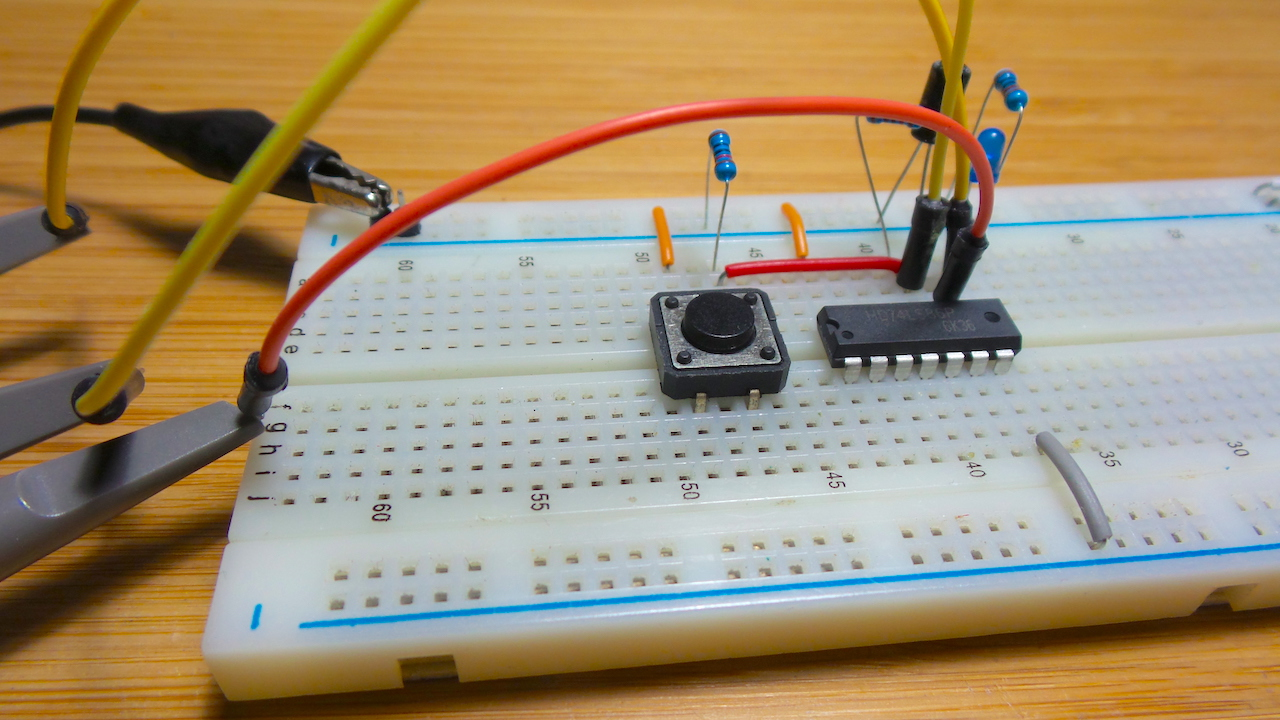
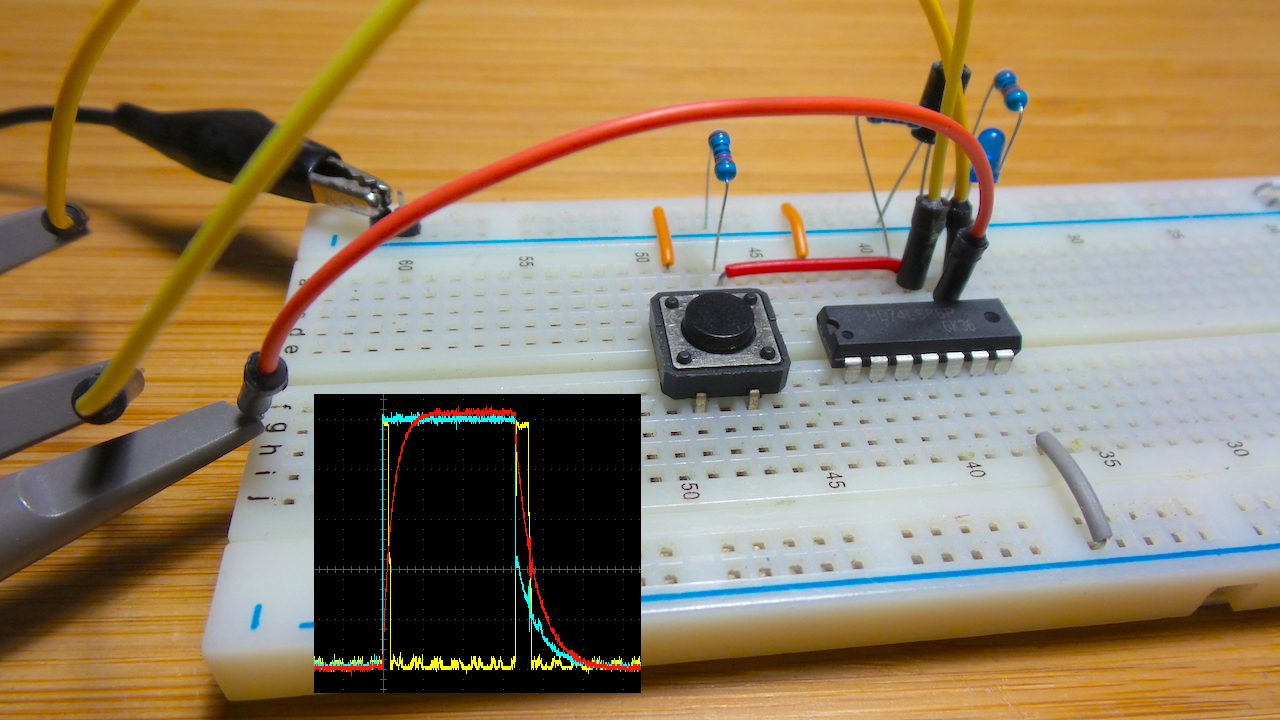
[555RisingEdgeDetector] add project

Changed region(s): [[0.2188, 0.55, 0.5, 0.9778]]

diff --git a/Electronics101/EdgeDetection/555RisingEdgeDetector/README.md b/Electronics101/EdgeDetection/555RisingEdgeDetector/README.md
@@ -1,0 +1,42 @@
+# #489 555 Rising Edge Detector
+
+Using the 555 timer and AC-coupling to produce a fixed-width rising edge trigger pulse.
+
+![Build](./assets/555RisingEdgeDetector_build.jpg?raw=true)
+
+Here's a quick demo..
+
+[![clip](https://img.youtube.com/vi/UjDWfYYWZe8/0.jpg)](https://www.youtube.com/watch?v=UjDWfYYWZe8)
+
+## Notes
+
+This demonstrates a circuit for generating a pulse on a rising edge.
+It uses a 555 monostable circuit to generate a clean output pulse of fixed duration.
+The output pulse is active-low logic, but this can be inverted in a following stage if required.
+
+The input edge detection is achieved by AC-coupling the input (with capacitor C1) feeding the 555 timer's threshold input.
+The threshold is normally pulled low (R3), and a diode (D1) is included to absorb much of the falling edge pulse.
+
+## Behaviour
+
+The scope trace below shows the pulse generated on the rising edge of the input.
+The output pulse is around 250ms, close to the calculated [242ms](https://visual555.tardate.com/?mode=monostable&r1=22&c=10).
+
+* CH1 (yellow) - input signal
+* CH2 (blue) - RC filtered pulse
+* CH3 (red) - output
+
+![scope](./assets/scope.gif?raw=true)
+
+## Construction
+
+![Breadboard](./assets/555RisingEdgeDetector_bb.jpg?raw=true)
+
+![Schematic](./assets/555RisingEdgeDetector_schematic.jpg?raw=true)
+
+![Build](./assets/555RisingEdgeDetector_build.jpg?raw=true)
+
+## Credits and References
+
+* [LM555 Datasheet](https://www.futurlec.com/Linear/LM555CN.shtml)
+* [Edge-Triggered 555 Monostable Multivibrator](https://www.electroschematics.com/11032/edge-triggered-555-monostable-multivibrator/)

diff --git a/README.md b/README.md
@@ -1,7 +1,6 @@
-# 488 Little Electronics and Arduino Projects
+# 489 Little Electronics and Arduino Projects
 
-> Latest addition:sparkles: [XOR-RC Edge Detector](./Electronics101/EdgeDetection/XorRcEdgeDetector) - dual edge detection with a 74LS86 XOR and RC circuit.
-
+> Latest addition:sparkles: [555 Rising Edge Detector](./Electronics101/EdgeDetection/555RisingEdgeDetector) - using the 555 timer and AC-coupling to produce a fixed-width rising edge trigger pulse.
 
 Just my collection of electronics projects, many involving an Arduino in one way or another.
 Some are full builds (like [The FretBoard](./FretBoard)),
